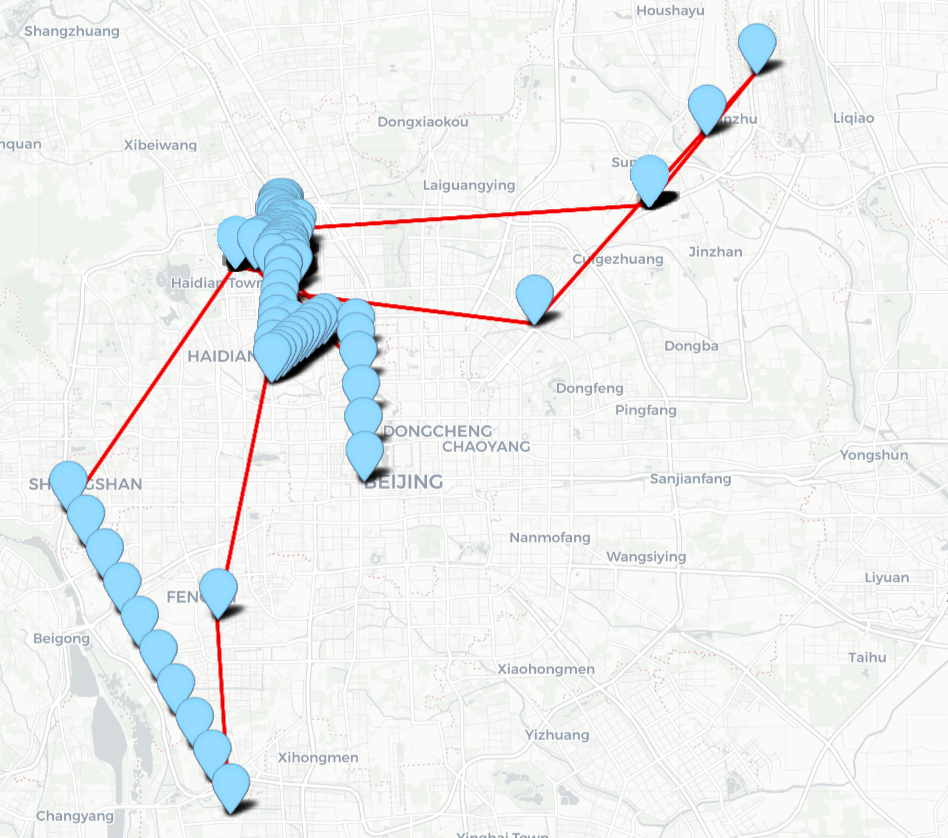
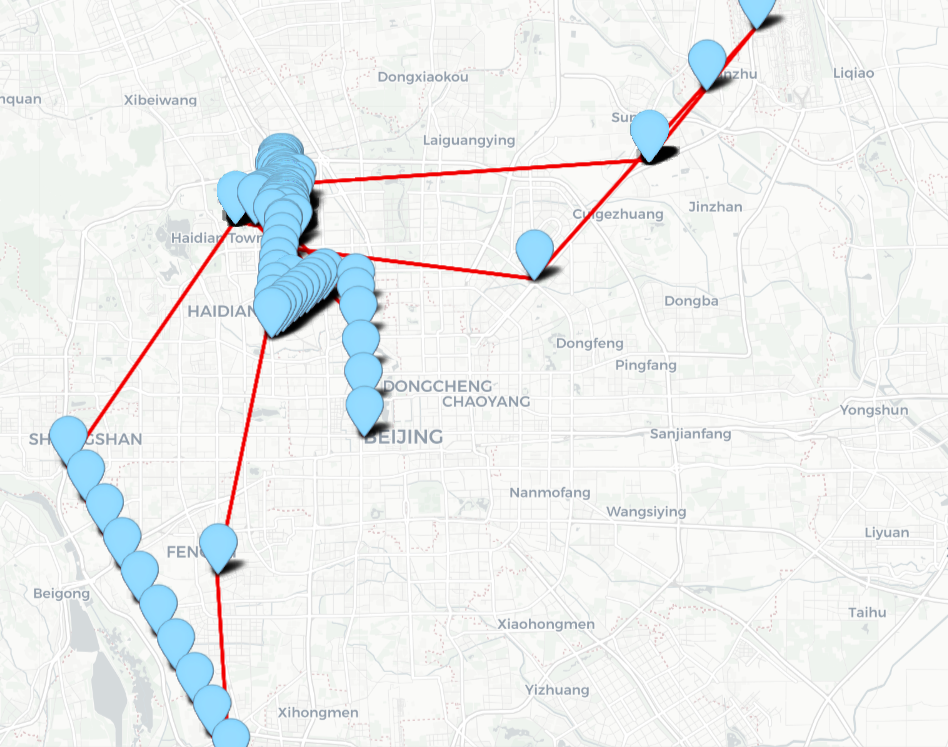
Webpage finish

diff --git a/src/Shanghai.js b/src/Shanghai.js
@@ -2,32 +2,42 @@ import React from 'react';
 import './Slide.css';
 import { Carousel, Container, Image } from 'react-bootstrap';
 
-import geolife1 from './Image/geolife1.png';
+import shanghai_base from './Image/shanghai_base_station.png';
+import traj from './Image/traj_length.png';
+import uniq from './Image/uniq.png';
+import clustering from './Image/clustering.png';
 
 function Shanghai() {
   return (
     <Container className='slide'>
       <h2>Shanghai Dataset</h2>
-      <Carousel>
+      <Carousel data-bs-theme="dark">
         <Carousel.Item>
-            <Image className="d-block w-100" src={geolife1} alt="First slide" />
+            <Image className="d-block w-100" src={shanghai_base} alt="First slide" />
             <Carousel.Caption>
-            <h3>First slide label</h3>
-            <p>Data exploration 1 - ...</p>
+            <h4>Shanghai Base Stations</h4>
+            <p>Here is the data exploration showing the locations of base Stations.</p>
             </Carousel.Caption>
         </Carousel.Item>
         <Carousel.Item>
-            <Image className="d-block w-100" src={geolife1} alt="Second slide" />
+            <Image className="d-block w-100" src={traj} alt="Second slide" />
             <Carousel.Caption>
-            <h3>Second slide label</h3>
-            <p>Data exploration 2 - ...</p>
+            <h4>Overview for Trajectory Length</h4>
+            <p>Here is the bar diagram showing the trajectory length for Shanghai users.</p>
             </Carousel.Caption>
         </Carousel.Item>
         <Carousel.Item>
-            <Image className="d-block w-100" src={geolife1} alt="Third slide" />
+            <Image className="d-block w-100" src={clustering} alt="Third slide" />
             <Carousel.Caption>
-            <h3>Third slide label</h3>
-            <p>Data exploration 3 - ...</p>
+            <h4>Preprocessing</h4>
+            <p>Using clustering to gather users.</p>
+            </Carousel.Caption>
+        </Carousel.Item>
+        <Carousel.Item>
+            <Image className="d-block w-100" src={uniq} alt="Fourth slide" />
+            <Carousel.Caption>
+            <h4>Uniqueness found from Shanghai Dataset</h4>
+            <p>Uniqueness determines whether the users can be found in a unique pattern.</p>
             </Carousel.Caption>
         </Carousel.Item>
     </Carousel>

diff --git a/src/Geolife.js b/src/Geolife.js
@@ -1,32 +1,35 @@
 import React from 'react';
 import './Slide.css';
 import { Carousel, Container, Image } from 'react-bootstrap';
+
+import locations from './Image/geolife_locations.png';
 import geolife1 from './Image/geolife1.png';
+import interpolation from './Image/interpolation.png';
 
 function Geolife() {
   return (
     <Container className='slide'>
         <h2>Geolife Dataset</h2>
-        <Carousel>
+        <Carousel data-bs-theme="dark">
             <Carousel.Item>
-                <Image className="d-block w-100" src={geolife1} alt="First slide" />
+                <Image className="d-block w-100" src={locations} alt="First slide" />
                 <Carousel.Caption>
-                <h3>First slide label</h3>
-                <p>Data exploration 1 - ...</p>
+                <h4>Geolife user locations</h4>
+                <p>This is the world-widely map showing user locations.</p>
                 </Carousel.Caption>
             </Carousel.Item>
             <Carousel.Item>
                 <Image className="d-block w-100" src={geolife1} alt="Second slide" />
                 <Carousel.Caption>
-                <h3>Second slide label</h3>
-                <p>Data exploration 2 - ...</p>
+                <h4>Sample user trajectory</h4>
+                <p>Here is the user trajectories foe each Monday.</p>
                 </Carousel.Caption>
             </Carousel.Item>
             <Carousel.Item>
-                <Image className="d-block w-100" src={geolife1} alt="Third slide" />
+                <Image className="d-block w-100" src={interpolation} alt="Third slide" />
                 <Carousel.Caption>
-                <h3>Third slide label</h3>
-                <p>Data exploration 3 - ...</p>
+                <h4>Linear interpolation method</h4>
+                <p>Int the preprocessing step, interpolation helps to recover the user trajectories in the dataset.</p>
                 </Carousel.Caption>
             </Carousel.Item>
         </Carousel>

diff --git a/src/Home.js b/src/Home.js
@@ -11,6 +11,18 @@ function Geolife() {
         from aggregated location data with greater accuracy than the attack outlined in the paper 'Trajectory 
         Recovery from Ash'?"
         </p>
+        <h2>Dataset Selection</h2>
+        <p>
+            This project utilizes two datasets: the Shanghai Telecom Dataset and Geolife. These datasets primarily 
+            feature latitude, longitude, and timestamps, which are crucial for trajectory recovery. Each dataset 
+            possesses specific characteristics suitable for the project:
+            <li>Both datasets exhibit simple structures, facilitating easy modifications.</li>
+            <li>The Shanghai Dataset aggregates data from diverse base stations, whereas the Geolife dataset tracks 
+                individual user locations. This diversity enables comprehensive scenario coverage and analysis.</li>
+            <li>The datasets differ in size, with Geolife being smaller. This discrepancy allows for an investigation
+                into the influence of data size on recovery results.</li>
+        </p>
+
         <h2>Architecture</h2>
         <div style={{ textAlign: 'center' }}>
             <Image src={architecture} style={{ width: '50vw', maxWidth: '100%' }}></Image>

diff --git a/src/Slide.css b/src/Slide.css
@@ -7,19 +7,24 @@
 
 .carousel {
     position: relative;
+    width: 100%;
+    max-width: 800px;
+    max-height: 90%;
     margin: 0 auto;
   }
 
-.carousel-item .carousel-caption {
-    color: #717171;
-  }
-  
-  .carousel-control-prev,
-  .carousel-control-next {
-    color: #00ff00 !important;
-  }
+.carousel .d-block w-100 {
+  position: relative;
+  max-width: fit-content;
+  max-height: 80%;
+  transform: translateY(50%);
+}
 
-.carousel-control-prev-icon,
-.carousel-control-next-icon {
-  filter: invert(100%);
+.carousel-caption {
+  position: relative;
+  top: 100%;
+  bottom: 0; 
+  left: 0;
+  color: #fff;
+  padding: 10px;
 }

diff --git a/src/Header.js b/src/Header.js
@@ -11,7 +11,7 @@ const Header = ({ onPageChange }) => {
     return (
     <header>
         <div className="navbar">
-          <a className="navbar-brand" href="/">AI ADVANCE</a>
+          <h2 className="navbar-brand">AI ADVANCE - Dataset Visualization</h2>
         </div>
 
         <div className="menu">
